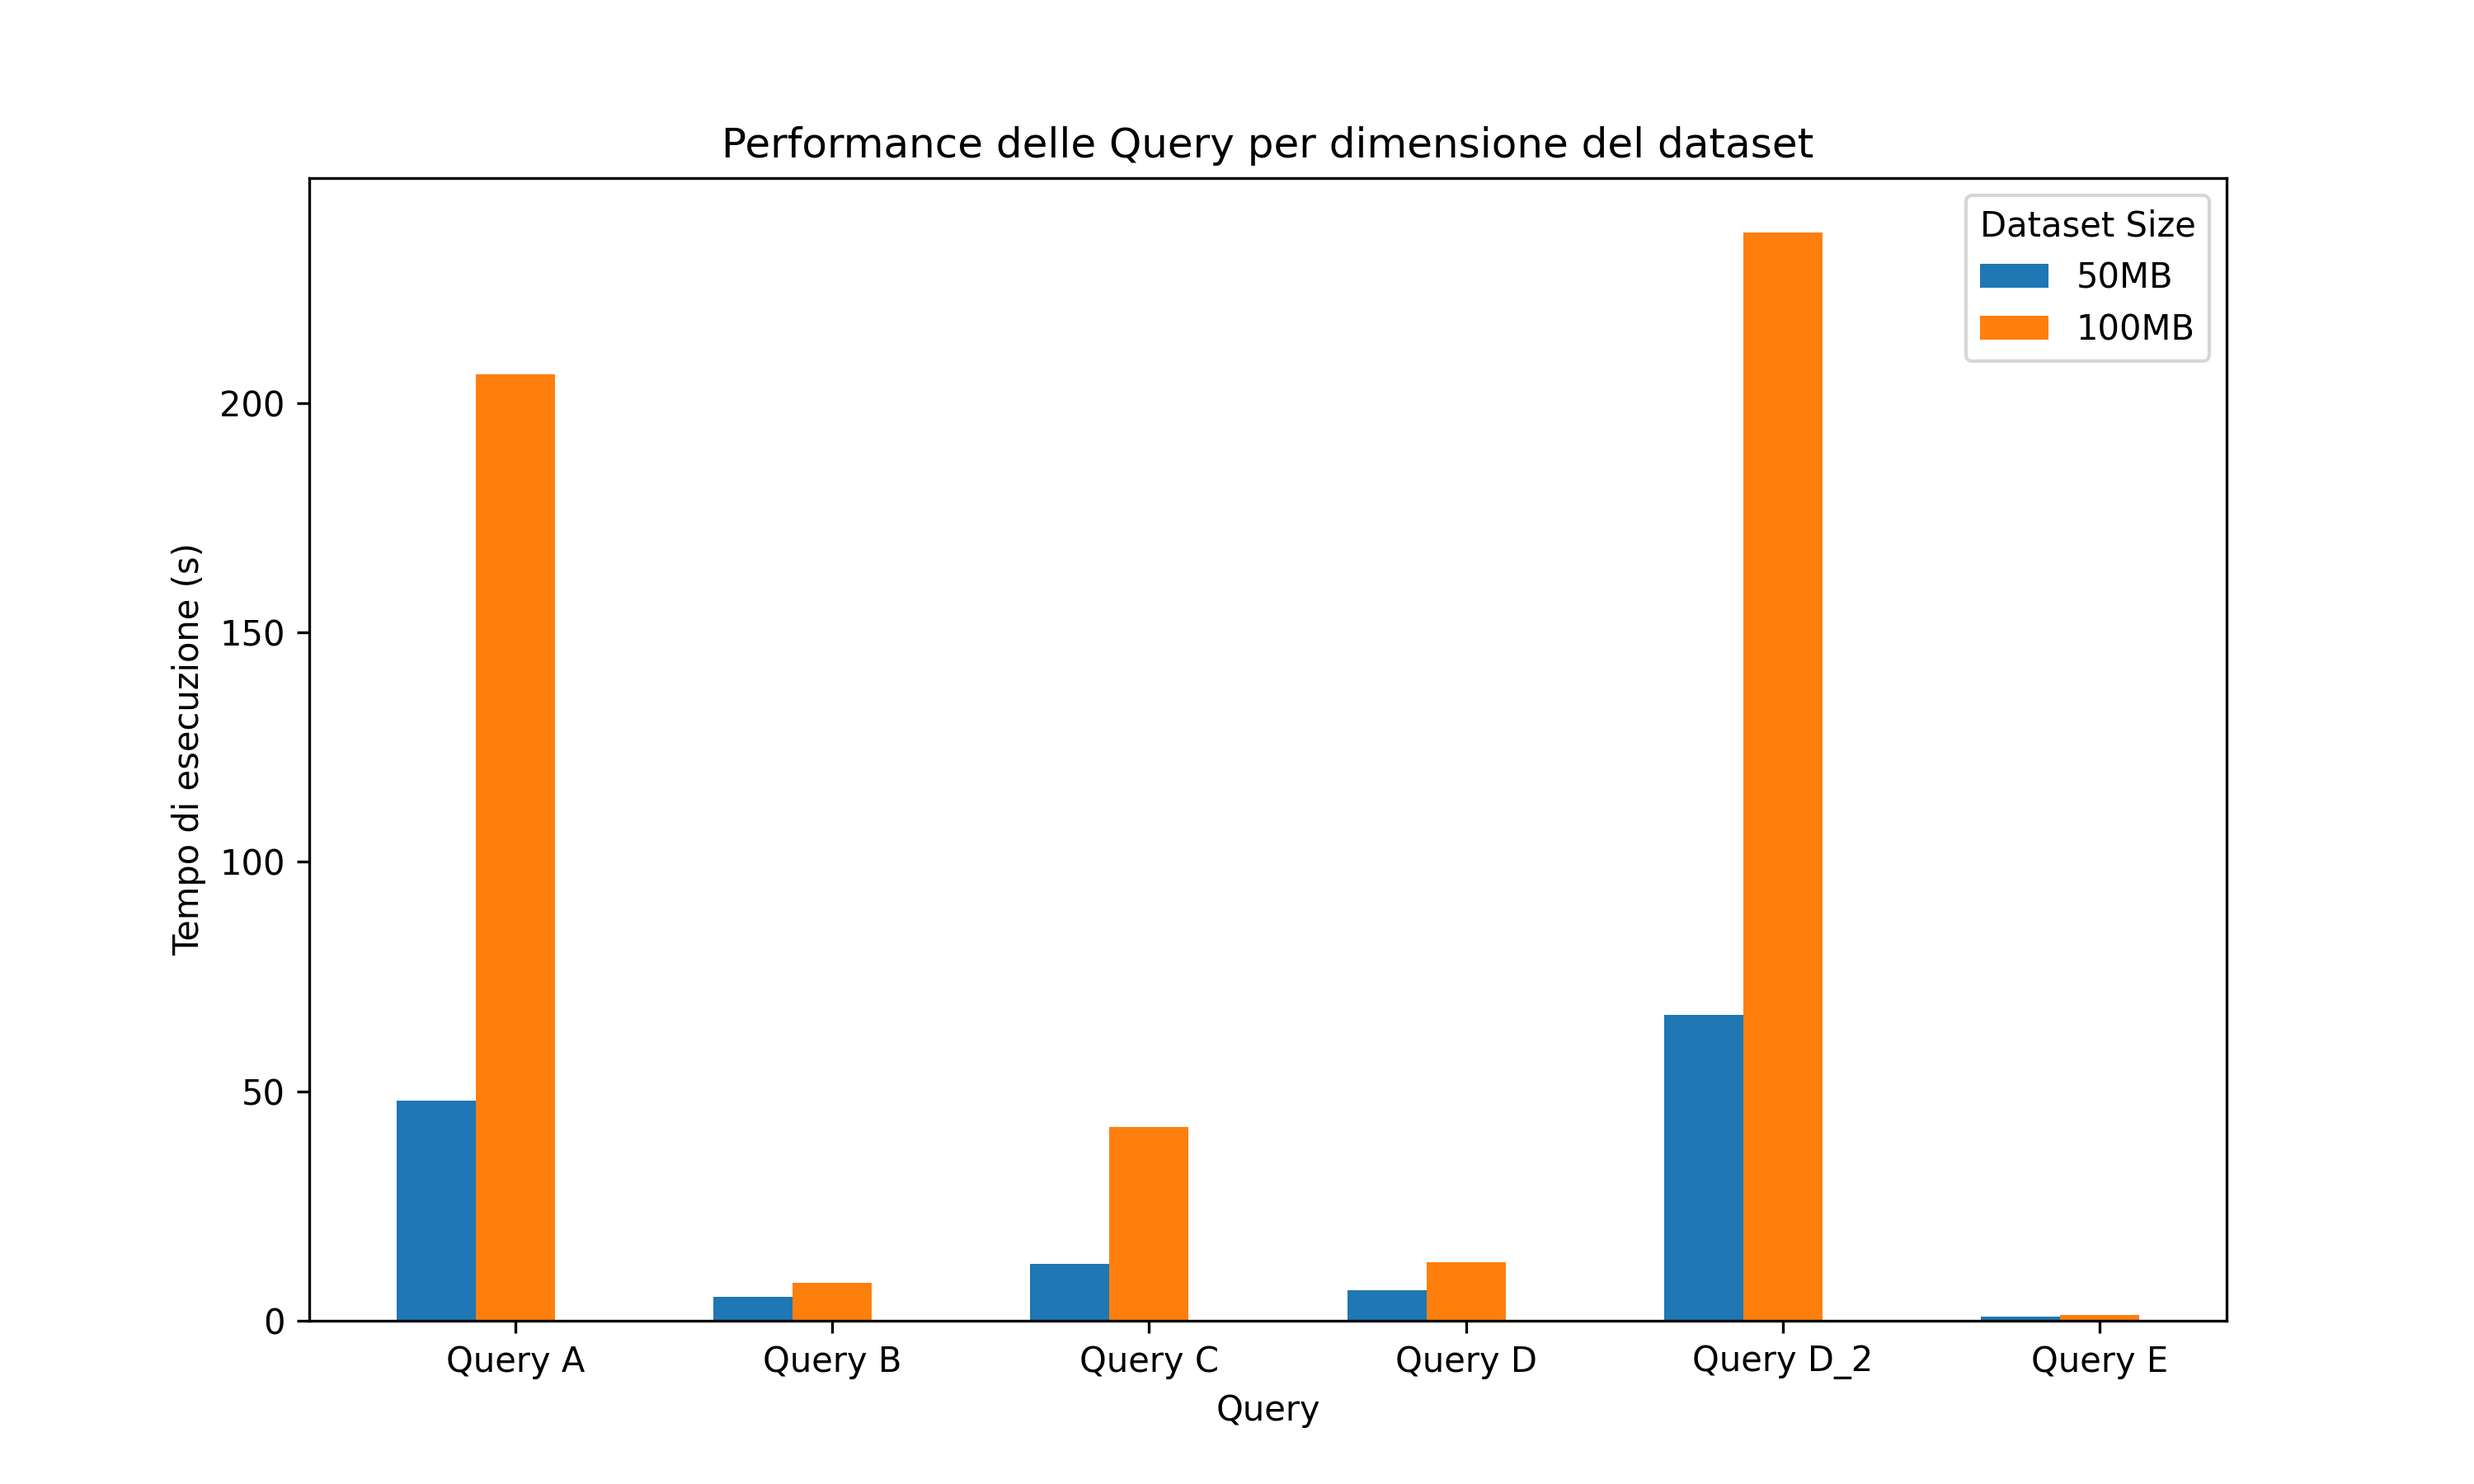
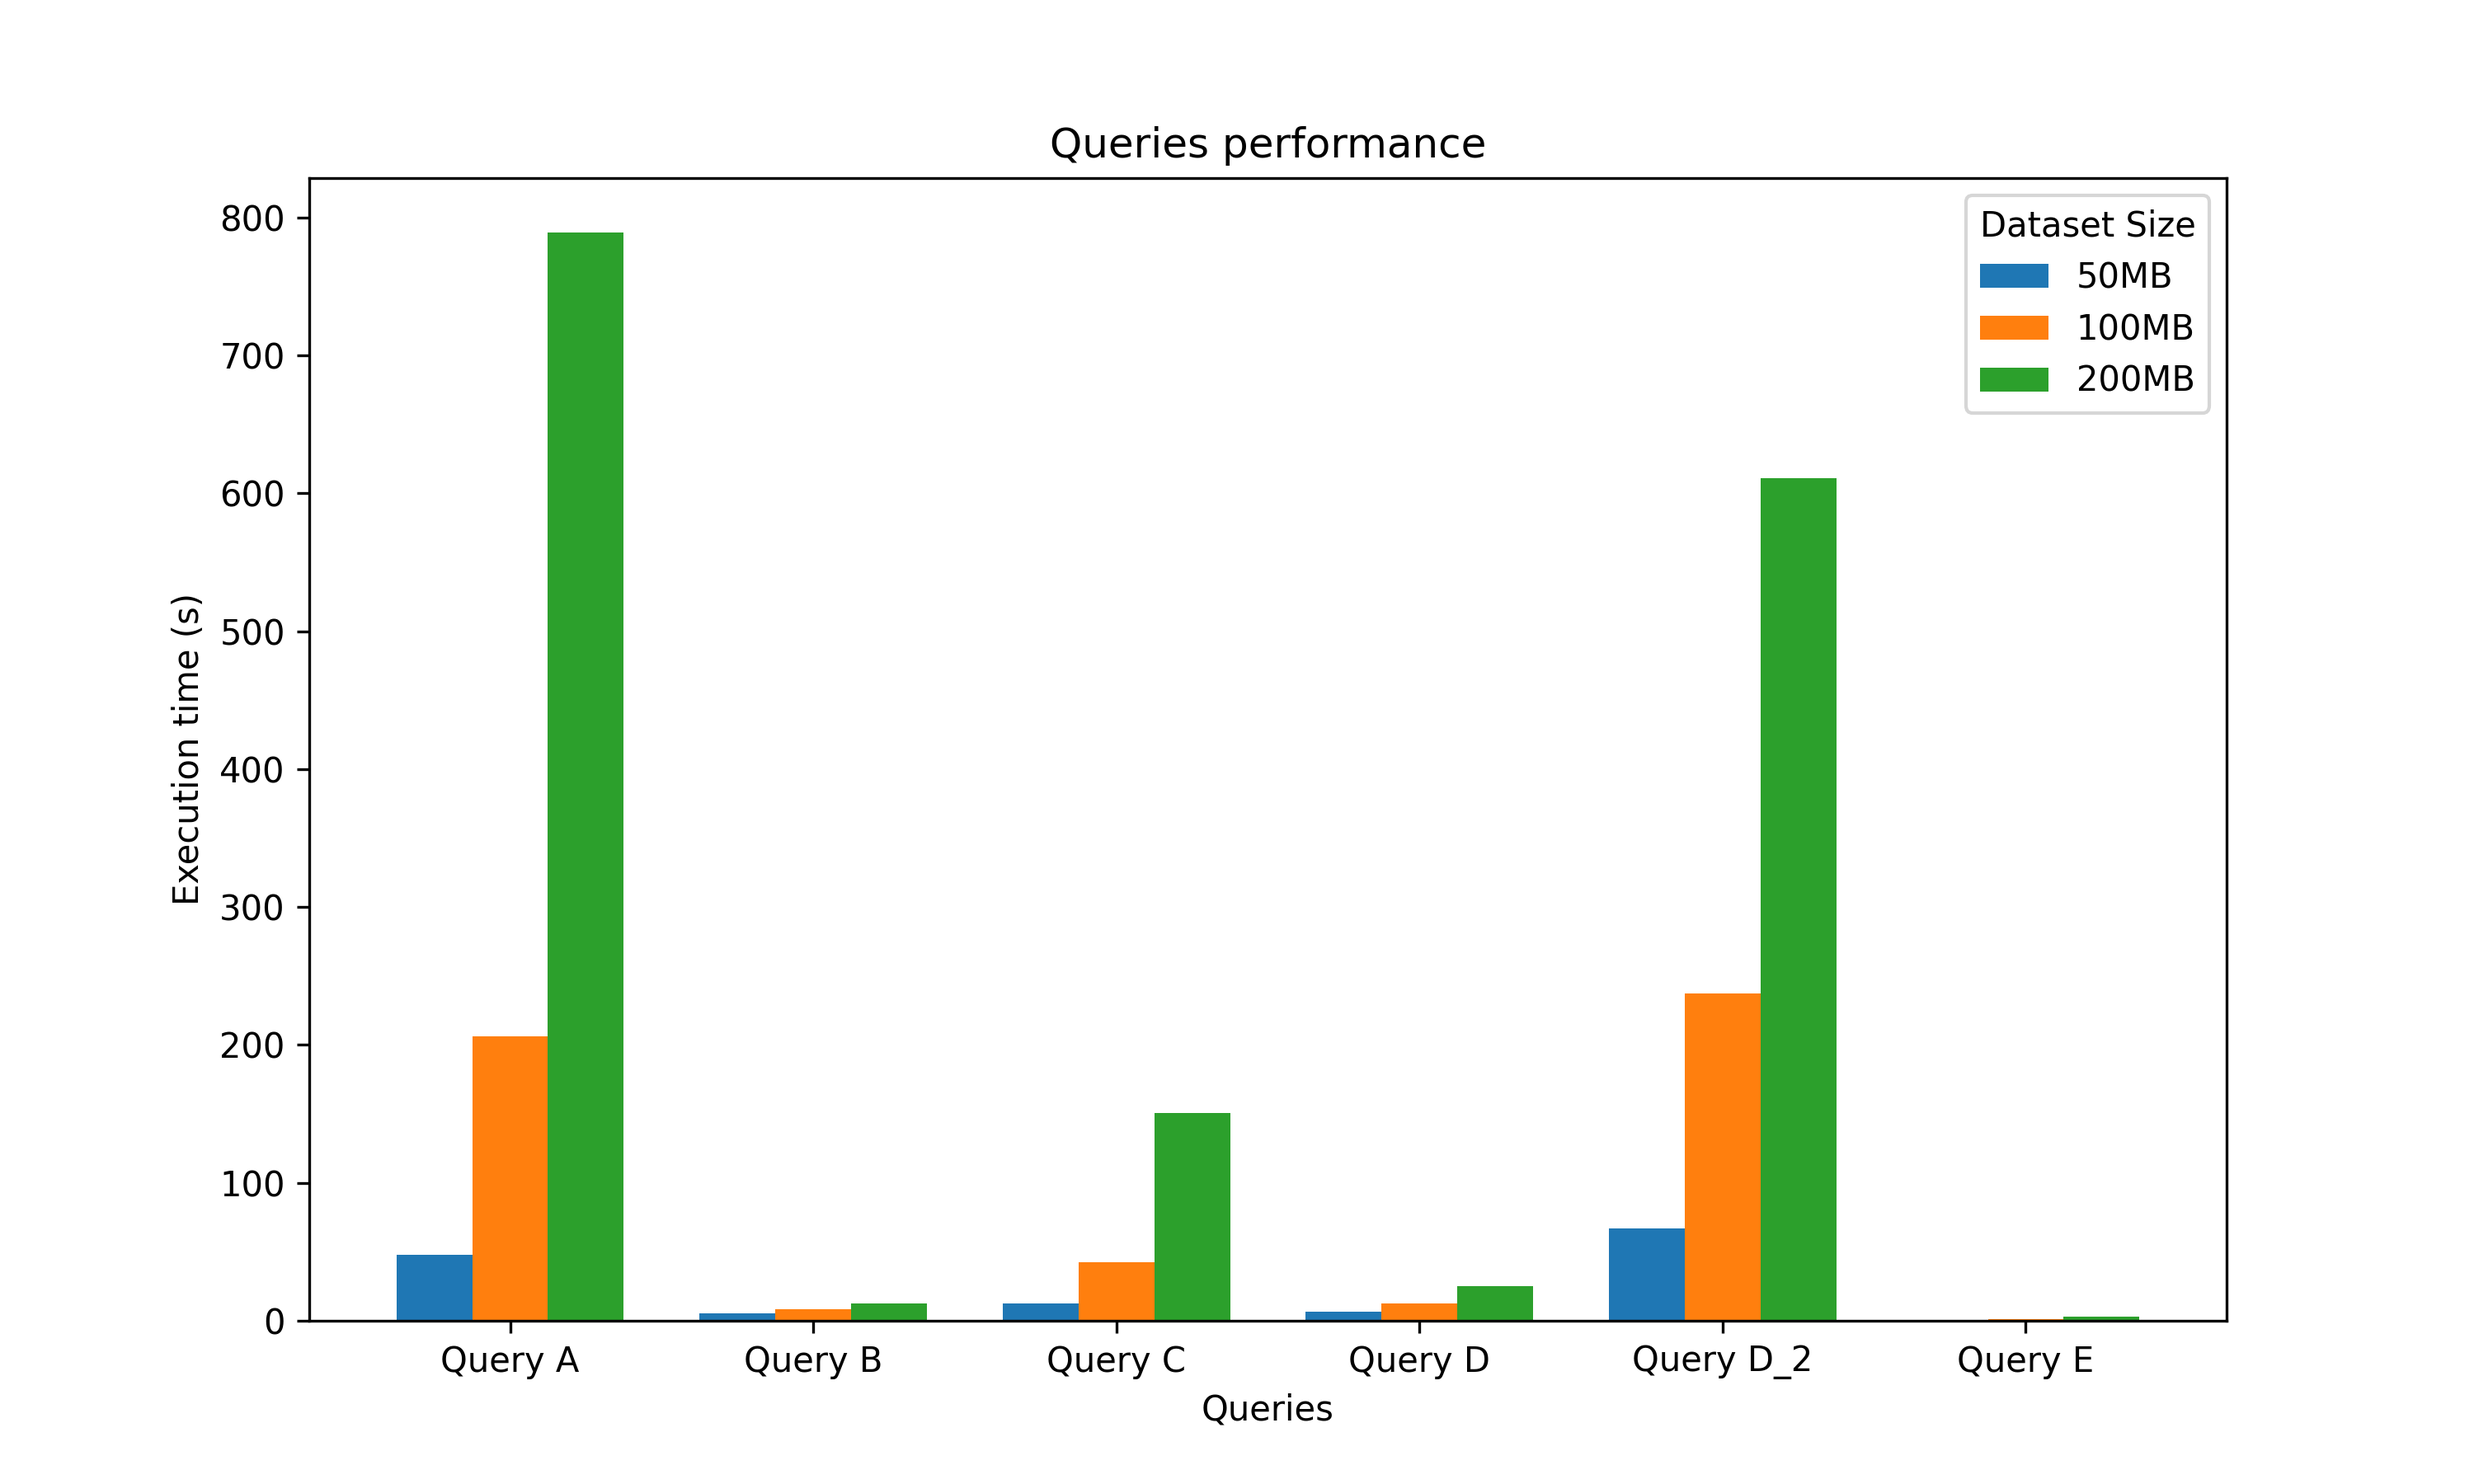
grafici pt.2

diff --git a/plot.py b/plot.py
@@ -9,7 +9,7 @@ sizes = ["50MB", "100MB", "200MB"]
 performance = {
     "50MB": [47.93, 5.12, 12.32, 6.73, 66.71, 0.83],
     "100MB": [206.24, 8.23, 42.17, 12.67, 237.12, 1.29],
-    "200MB": [789.17, 12.49, 150.42, 505.25, 0.0, 0.0]
+    "200MB": [789.17, 12.49, 150.42, 25.21, 611.12, 2.94]
 }
 
 # Creazione del grafico a barre per ogni dimensione del dataset
@@ -18,6 +18,7 @@ width = 0.25  # Larghezza delle barre
 
 fig, ax = plt.subplots(figsize=(10, 6))
 
+# Aggiungi le barre per ogni dimensione del dataset
 for i, size in enumerate(sizes):
     if None not in performance[size]:  # Controlla se ci sono valori mancanti
         ax.bar(x + i * width, performance[size], width, label=size)
@@ -26,8 +27,18 @@ for i, size in enumerate(sizes):
 ax.set_xlabel("Queries")
 ax.set_ylabel("Execution time (s)")
 ax.set_title("Queries performance")
+
+# Modifica degli intervalli per l'ascissa (y-axis)
 ax.set_xticks(x + width)
 ax.set_xticklabels(queries)
+
+# Imposta intervalli sull'asse y per una visualizzazione migliore
+ax.set_yticks(np.arange(0, 800, 50))  # Cambia l'intervallo a seconda della grandezza dei tuoi dati
+ax.set_ylim(0, 800)  # Imposta un limite superiore all'asse y per visualizzare meglio
+
+# Aggiungi la legenda
 ax.legend(title="Dataset Size")
+
 # Mostra il grafico
-plt.savefig("performance_plot.png", dpi=300)  # Salva l'immagine con alta qualità
+plt.savefig("performance_plot_adjusted.png", dpi=300)  # Salva l'immagine con alta qualità
+plt.show()
